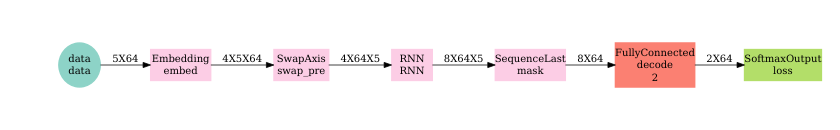
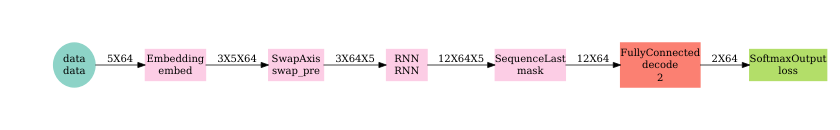
readme

Changed region(s): [[0.0619, 0.3077, 0.5881, 0.6769], [0.681, 0.3077, 0.9905, 0.6769]]

diff --git a/README.md b/README.md
@@ -39,20 +39,6 @@ To illustrate the benefit of bucketing, two datasets are created:
 -   `corpus_single_train.rds`: no bucketing, all samples are padded/trimmed to 600 words.
 -   `corpus_bucketed_train.rds`: samples split into 5 buckets of length 100, 150, 250, 400 and 600.
 
-<!-- -->
-
-    ## Found more than one class "BucketIter" in cache; using the first, from namespace 'mxnet'
-
-    ## Also defined by '.GlobalEnv'
-
-    ## Found more than one class "BucketIter" in cache; using the first, from namespace 'mxnet'
-
-    ## Also defined by '.GlobalEnv'
-
-    ## Found more than one class "BucketIter" in cache; using the first, from namespace 'mxnet'
-
-    ## Also defined by '.GlobalEnv'
-
 Below is the example of the assignation of the bucketed data and labels into `mx.io.bucket.iter` iterator. This iterator behaves essentially the same as the `mx.io.arrayiter` except that is pushes samples coming from the different buckets along with a bucketID to identify the appropriate network to use.
 
 ``` r
@@ -80,8 +66,8 @@ For bucketing, a list of symbols is defined, one for each bucket length. During 
 
 ``` r
 symbol_single <- rnn.graph(config = "seq-to-one", cell_type = "lstm", 
-                           num_rnn_layer = 1, num_embed = 4, num_hidden = 8, 
-                           num_decode = 2, input_size = vocab, dropout = 0.25, 
+                           num_rnn_layer = 1, num_embed = 3, num_hidden = 12, 
+                           num_decode = 2, input_size = vocab, dropout = 0, 
                            ignore_label = -1, loss_output = "softmax",
                            output_last_state = F, masking = T)
 ```
@@ -115,14 +101,24 @@ devices <- mx.gpu()
 
 initializer <- mx.init.Xavier(rnd_type = "gaussian", factor_type = "in", magnitude = 3)
 
-optimizer <- mx.opt.create(name = "adam",
-                           learning.rate = 5e-3,
-                           beta1 = 0.9,
-                           beta2 = 0.999,
-                           epsilon = 1e-8,
-                           wd = 1e-3,
+
+optimizer <- mx.opt.create(name = "rmsprop",
+                           learning.rate = 1e-2,
+                           gamma1 = 0.95,
+                           gamma2 = 0.95,
+                           wd = 1e-5,
                            rescale.grad = 1/batch.size,
-                           clip_gradient = 2)
+                           clip_gradient = 5)
+
+# optimizer <- mx.opt.create(name = "adam",
+#                            learning.rate = 1e-2,
+#                            beta1 = 0.9,
+#                            beta2 = 0.999,
+#                            epsilon = 1e-8,
+#                            wd = 1e-5,
+#                            rescale.grad = 1/batch.size,
+#                            clip_gradient = 5)
+
 
 logger <- mx.metric.logger()
 epoch.end.callback <- mx.callback.log.train.metric(period = 1, logger = logger)
@@ -140,7 +136,7 @@ system.time(
 ```
 
     ##    user  system elapsed 
-    ## 178.072  18.280 186.158
+    ## 185.120  19.176 191.703
 
 ![](README_files/figure-markdown_github/logger1-1.png)
 
@@ -151,14 +147,22 @@ devices <- mx.gpu()
 
 initializer <- mx.init.Xavier(rnd_type = "gaussian", factor_type = "in", magnitude = 3)
 
-optimizer <- mx.opt.create(name = "adam",
-                           learning.rate = 5e-3,
-                           beta1 = 0.9,
-                           beta2 = 0.999,
-                           epsilon = 1e-8,
-                           wd = 1e-3,
+optimizer <- mx.opt.create(name = "rmsprop",
+                           learning.rate = 1e-2,
+                           gamma1 = 0.95,
+                           gamma2 = 0.95,
+                           wd = 1e-5,
                            rescale.grad = 1/batch.size,
-                           clip_gradient = 2)
+                           clip_gradient = 5)
+
+# optimizer <- mx.opt.create(name = "adam",
+#                            learning.rate = 1e-2,
+#                            beta1 = 0.9,
+#                            beta2 = 0.999,
+#                            epsilon = 1e-8,
+#                            wd = 1e-5,
+#                            rescale.grad = 1/batch.size,
+#                            clip_gradient = 5)
 
 logger <- mx.metric.logger()
 epoch.end.callback <- mx.callback.log.train.metric(period = 1, logger = logger)
@@ -167,7 +171,7 @@ batch.end.callback <- mx.callback.log.train.metric(period = 50)
 system.time(
   model <- mx.model.buckets(symbol = symbol_buckets,
                             train.data = train.data.bucket, eval.data = eval.data.bucket,
-                            num.round = 6, ctx = devices, verbose = FALSE,
+                            num.round = 8, ctx = devices, verbose = FALSE,
                             metric = mx.metric.accuracy, optimizer = optimizer,  
                             initializer = initializer,
                             batch.end.callback = NULL, 
@@ -184,7 +188,7 @@ system.time(
     ## Also defined by '.GlobalEnv'
 
     ##    user  system elapsed 
-    ## 102.264 115.692 204.023
+    ## 145.388 157.492 280.160
 
 ![](README_files/figure-markdown_github/logger2-1.png)
 
@@ -226,6 +230,6 @@ roc <- roc(predictions = pred_raw[, 2], labels = factor(label))
 auc <- auc(roc)
 ```
 
-Accuracy: 57%
+Accuracy: 78.7%
 
-AUC: 0.6028
+AUC: 0.8821
